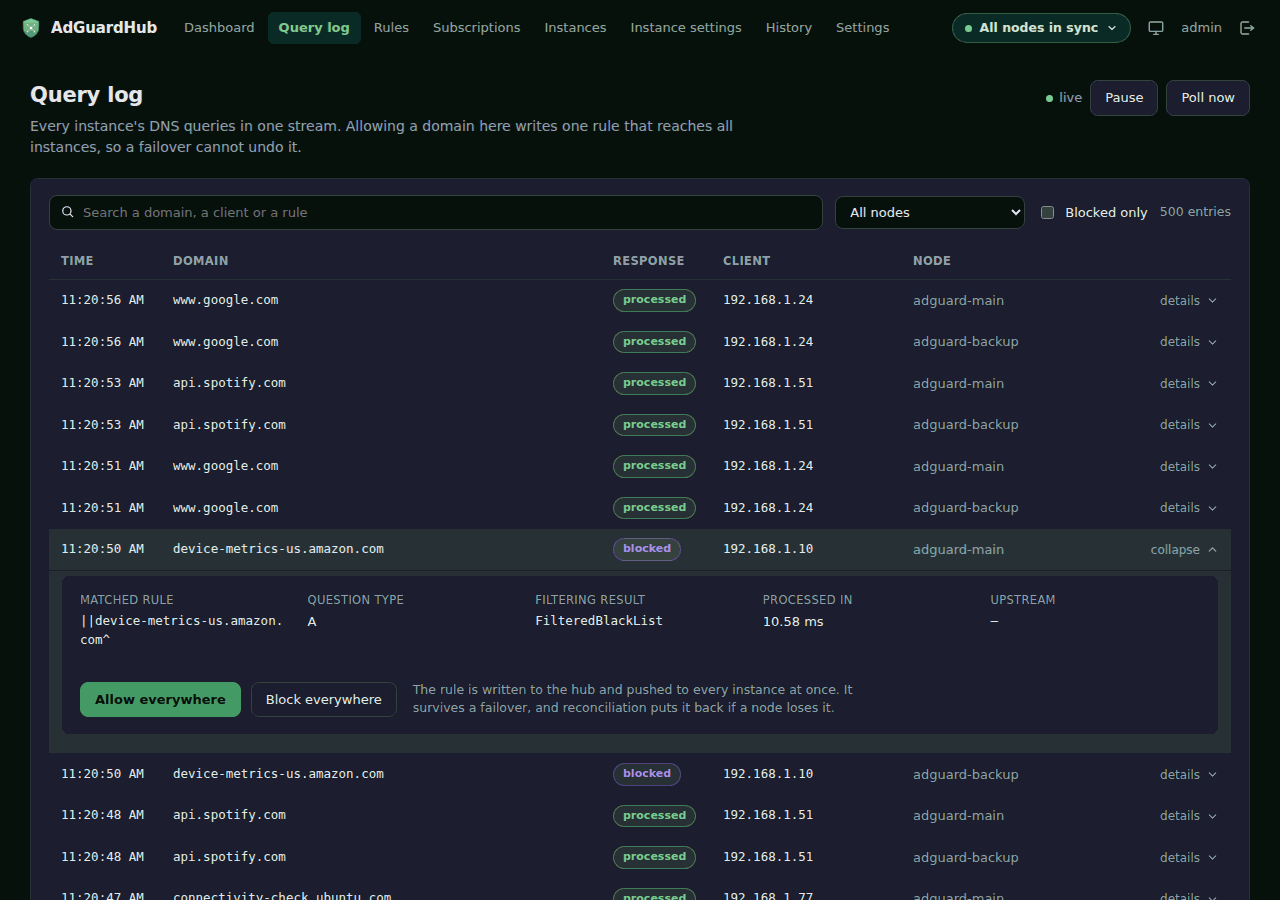
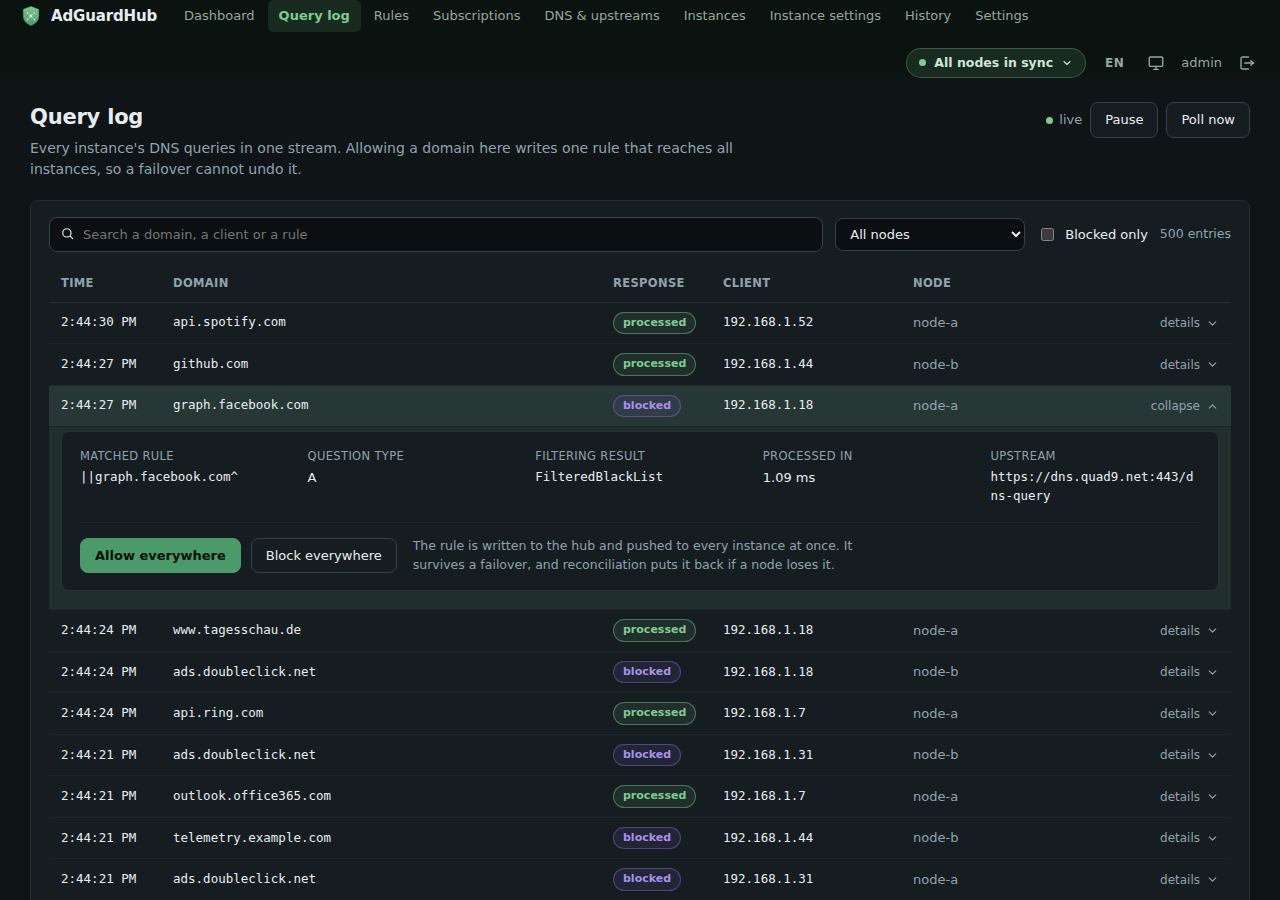
Reshoot the screenshots and bring the README up to v0.2.0
The four screenshots dated from before full configuration replication, version
history, the German interface and the block-rate ring fix, so they showed a
product that no longer exists. All four are retaken and five pages that had no
picture at all are added: rules, subscriptions, instances, history, and the
interface in German.

They are shot against two stub AdGuard nodes carrying a plausible day of
traffic rather than the four-point series the correctness fixtures use, because
a screenshot of an empty dashboard demonstrates nothing. The drift log in the
dashboard shots is real: a rule and an upstream were changed on the nodes
behind the hub's back, and reconciliation caught and corrected both.

README changes, all of them things that had drifted from the code:

* First run said naming a master was the way in. It is the shortcut, not the
  only path — skipping it starts from an empty rule set, and a section nobody
  has touched stays unreplicated (ConfigSection.managed defaults to False), so
  an area the hub has no opinion about is left to each node rather than
  overwritten with an empty document.
* The retention caps were undocumented. Three tables are capped and one — the
  retry queue — deliberately is not, which is worth stating where an operator
  will look for it rather than only in a docstring.
* Backup/restore and the AdGuard-compatible API had sections but were missing
  from the feature list at the top.
[…]

diff --git a/README.md b/README.md
@@ -23,7 +23,7 @@
 </p>
 
 <details>
-<summary>More screenshots — dark theme, query log, instance settings</summary>
+<summary>More screenshots — dark theme, query log, rules, subscriptions, instances, settings, history, German</summary>
 
 <br />
 
@@ -31,16 +31,39 @@ Same dashboard, dark theme. Both ship; the default follows the operating system.
 
 <img src="./docs/screenshots/dashboard-dark.png" width="900" alt="The dashboard in the dark theme" />
 
-The aggregated query log. Every node's queries in one stream, newest first; a row opens onto
-the rule that matched, and allowing or blocking from here writes one rule that reaches every
-node at once.
+The aggregated query log. Every node's queries in one stream, newest first, with the node that
+answered in its own column; a row opens onto the rule that matched, and allowing or blocking
+from here writes one rule that reaches every node at once.
 
 <img src="./docs/screenshots/querylog.png" width="900" alt="The query log with one row expanded, showing the matched rule and the allow action" />
+
+The central rule set, in native AdGuard syntax. Three ways in — a custom rule, a domain to
+allow, or a pasted block — all writing to the same model.
+
+<img src="./docs/screenshots/rules.png" width="900" alt="The filtering rules page: entry forms above, the rule table below with block and allow badges" />
+
+Blocklist subscriptions. The hub tracks the URL and whether it is on; AdGuard Home still
+downloads and applies the list itself, so the 700k-domain lists never touch this database.
+
+<img src="./docs/screenshots/subscriptions.png" width="900" alt="The subscriptions page listing four blocklist URLs with their enabled state" />
+
+Instances. Each AdGuard Home is added once, with credentials encrypted before they are stored.
+
+<img src="./docs/screenshots/instances.png" width="900" alt="The instances page showing two connected nodes, both online, with their version and last sync time" />
 
 Instance settings. The left column answers the page's real question — what the hub owns, and
 what is left to each node.
 
 <img src="./docs/screenshots/instance-settings.png" width="900" alt="Instance settings, with the encryption section selected and its certificate warning shown" />
+
+Version history. Every change is a snapshot you can compare or roll back to.
+
+<img src="./docs/screenshots/history.png" width="900" alt="The history page listing five versions, each with compare and roll back actions" />
+
+The whole interface in German. The language follows the browser on first load and is switched
+from the top bar; dates and numbers follow the language, not the browser.
+
+<img src="./docs/screenshots/dashboard-de.png" width="900" alt="The dashboard in German" />
 
 </details>
 
@@ -66,6 +89,10 @@ AdGuardHub becomes the **single source of truth** for filtering rules, blocklist
   DHCP is deliberately excluded, since leases and interface bindings are per-host state
 - **Version history** — every change is snapshotted, so you can see what a sync carried,
   diff any two points, and roll back (the rollback is recorded too, so it can be undone)
+- **Backup and restore** — everything the hub owns as one JSON document, validated in full
+  before anything is written
+- **AdGuard-compatible API** — point an existing client (a phone remote, Home Assistant, a
+  script) at the hub instead of at one node, and what it changes is pushed everywhere
 - **Notifications** via configurable webhooks to Home Assistant, Discord, or Gotify
 
 ## The interface
@@ -203,6 +230,12 @@ rather than a SQLAlchemy traceback.
 2. **Pick a master** and hit *Import as master*. Its rules and subscriptions become the hub's
    starting state, and every other instance is overwritten with it on the next push. There is no
    merge between instances — that's the whole point.
+
+   Naming a master is not compulsory. Skip the step and the hub starts from an empty rule set,
+   which you then fill in here: settings you never touch stay switched off for replication, so
+   an area the hub has no opinion about is left to each node rather than being flattened by an
+   empty document. Import is the shortcut when one node already holds the configuration you
+   want; it is not the only way in.
 3. **Work only in AdGuardHub from here on.** Anything changed directly in a native AdGuard UI is
    detected by the next reconciliation run, corrected, and shown in the drift log.
 
@@ -315,6 +348,22 @@ snapshot. Under *History* you can:
   rollback itself is recorded so it can be undone in turn
 
 History is capped at the most recent 200 versions to keep the database small.
+
+### What else is capped
+
+Three tables would otherwise grow for as long as the hub runs. None of them grows quickly —
+rows appear when something goes wrong, so a healthy hub barely accumulates any — but a node
+that flaps for months is a different story:
+
+| Table | Kept | Why that number |
+| --- | --- | --- |
+| Version history | 200 | Enough to roll back through a bad week |
+| Drift log | 500 | What `/api/drift` will serve in one request at most |
+| Applied push jobs | 500 | Same, for `/api/jobs` |
+
+**The retry queue is never trimmed.** A pending or failed job is work still owed to an
+instance; dropping one would silently abandon a change that never reached a node, which is the
+exact failure the queue exists to prevent. Only jobs that already landed count as history.
 
 ## AdGuard-compatible API
 
@@ -462,6 +511,9 @@ adguardhub/
 │   │   └── main.py
 │   └── tests/
 ├── frontend/             # React + TypeScript (Vite)
+│   ├── src/i18n/         # English-keyed dictionaries + the completeness check
+│   └── scripts/
+├── docs/screenshots/     # The images in this README
 ├── .github/workflows/    # ci.yml, docker-publish.yml
 ├── Dockerfile
 └── docker-compose.yml
@@ -469,12 +521,27 @@ adguardhub/
 
 ## Roadmap
 
-v0.1.0 covers the MVP: instance management, the central rule model with instant push,
+**v0.1.0** was the MVP: instance management, the central rule model with instant push,
 reconciliation with a visible drift log, the aggregated query log, subscription management,
 single-user login, and the three notifier types.
 
-Planned, deliberately **not** in v1: Pi-hole support, per-client rule scoping, multi-user
-accounts, and a maintenance mode for pausing reconciliation on a single instance.
+**v0.2.0** is what the daily use of it asked for, in roughly that order — full configuration
+replication rather than rules alone, version history with diff and rollback, the
+AdGuard-compatible `/control` API so phone remotes and Home Assistant can point at the hub,
+German alongside English, backup and restore, rate-limited sign-ins, and caps on the tables
+that used to grow without end.
+
+Next, in no fixed order: a maintenance mode for pausing reconciliation on one instance while
+you work on it, translating the drift log's summaries (they are generated in the backend and
+stored as English text), and preserving `!` comment lines in the rule set — the hub currently
+drops them on import, and reconciliation then removes them from the node.
+
+Deliberately **not** planned before v1.0: per-client rule scoping and multi-user accounts.
+v1.0 is when Pi-hole support lands and the feature set has settled. The adapter interface it
+needs is already in place: push, reconcile and import all reach a node through `DnsAdapter`
+rather than calling AdGuard's API themselves, so a second adapter is a new file rather than a
+rewrite. What is *not* abstracted is the rule syntax — v1 stores AdGuard-native rules, by
+design, and translating them is part of the Pi-hole work rather than something already done.
 
 ## License
 
